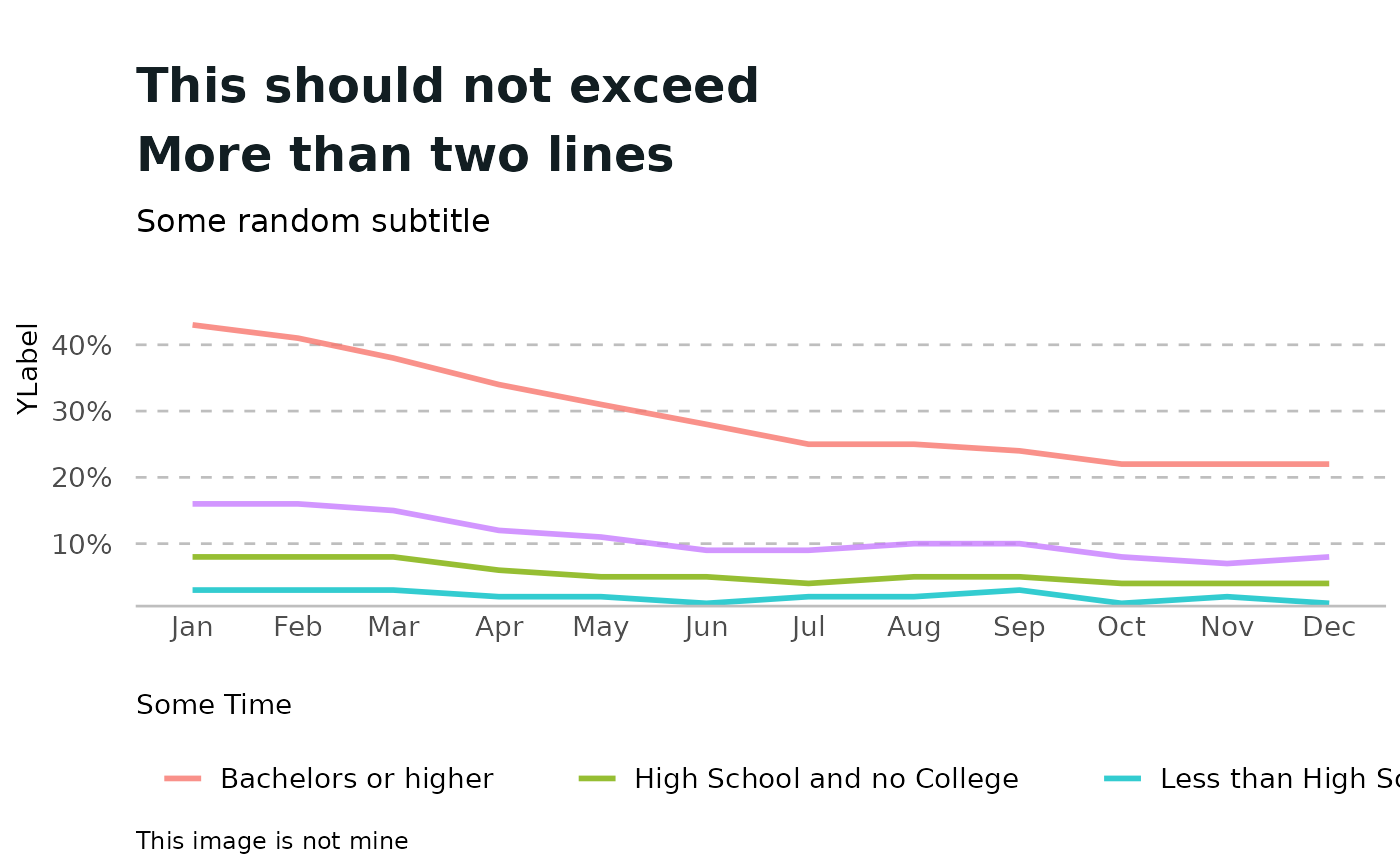
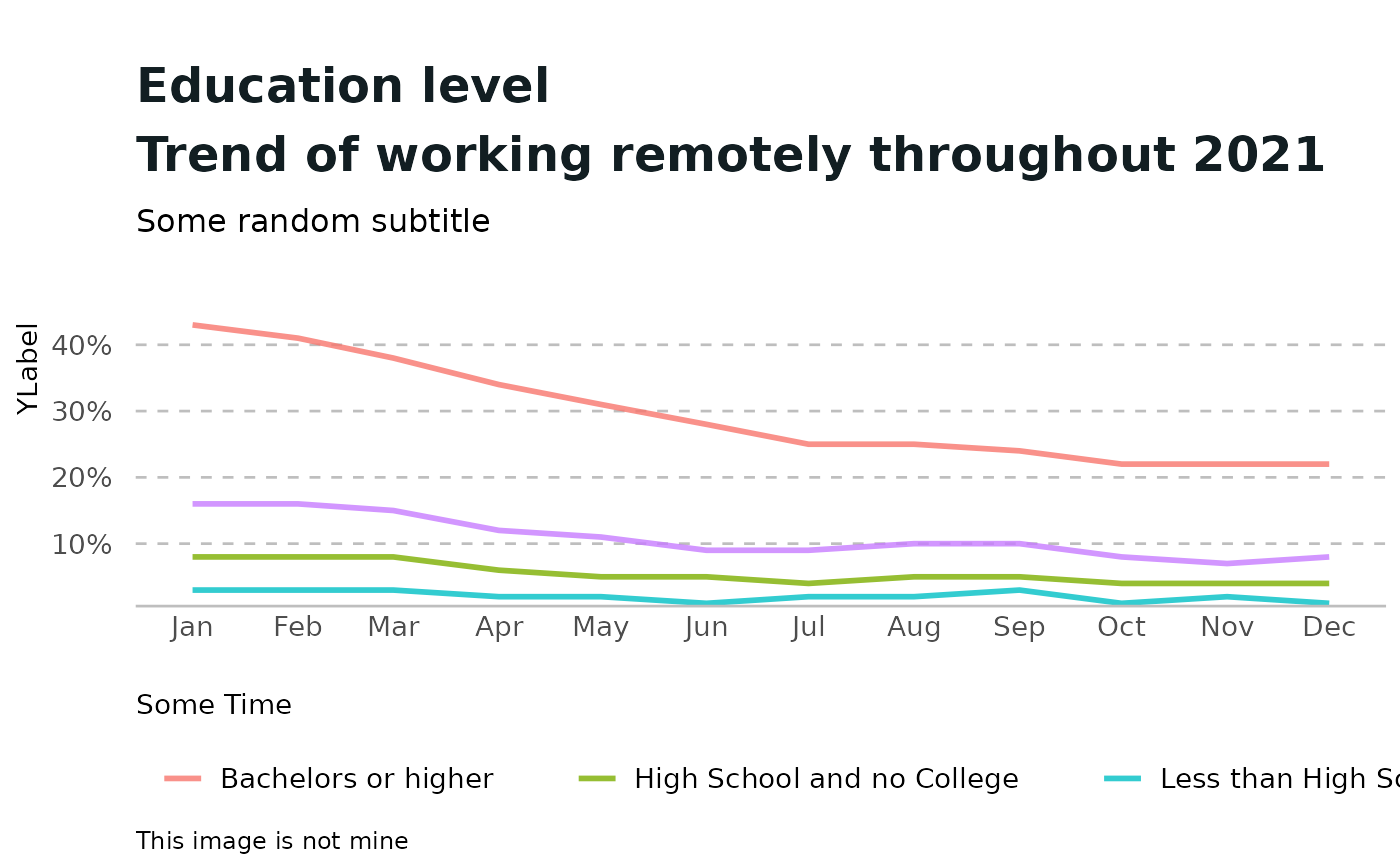
Built site for coriplot: 0.0.0.9000@da4fdbc

Changed region(s): [[0.0921, 0.1561, 0.9521, 0.2185], [0.0921, 0.0624, 0.5529, 0.1249]]

diff --git a/articles/coriplot.html b/articles/coriplot.html
@@ -132,7 +132,7 @@
   <span class="fu"><a href="../reference/theme_cori.html">theme_cori</a></span><span class="op">(</span><span class="op">)</span> <span class="op">-&gt;</span> <span class="va">fig</span>
 
 <span class="va">fig</span></code></pre></div>
-<p><img src="coriplot_files/figure-html/chart1-1.png" width="100%"></p>
+<p><img src="coriplot_files/figure-html/chart1-1.png" width="700"></p>
 </div>
 <div class="section level2">
 <h2 id="multi-line-chart-example">Multi LIne Chart Example<a class="anchor" aria-label="anchor" href="#multi-line-chart-example"></a>
@@ -147,7 +147,7 @@
   <span class="fu"><a href="https://ggplot2.tidyverse.org/reference/geom_path.html" class="external-link">geom_line</a></span><span class="op">(</span><span class="op">)</span> <span class="op">+</span>
   <span class="fu"><a href="https://ggplot2.tidyverse.org/reference/scale_date.html" class="external-link">scale_x_date</a></span><span class="op">(</span>date_breaks <span class="op">=</span> <span class="st">"1 month"</span>, date_labels <span class="op">=</span>  <span class="st">"%b"</span><span class="op">)</span> <span class="op">+</span> 
   <span class="fu"><a href="https://ggplot2.tidyverse.org/reference/scale_continuous.html" class="external-link">scale_y_continuous</a></span><span class="op">(</span><span class="op">)</span> <span class="op">+</span>
-  <span class="fu"><a href="https://ggplot2.tidyverse.org/reference/labs.html" class="external-link">labs</a></span><span class="op">(</span>title <span class="op">=</span> <span class="st">"This should not exceed\nMore than two lines"</span>,
+  <span class="fu"><a href="https://ggplot2.tidyverse.org/reference/labs.html" class="external-link">labs</a></span><span class="op">(</span>title <span class="op">=</span> <span class="st">"Education level\nTrend of working remotely throughout 2021"</span>,
        subtitle <span class="op">=</span> <span class="st">"Some random subtitle"</span>,
        caption <span class="op">=</span> <span class="st">"This image is not mine"</span><span class="op">)</span> <span class="op">+</span>
   <span class="fu"><a href="https://ggplot2.tidyverse.org/reference/labs.html" class="external-link">xlab</a></span><span class="op">(</span><span class="st">"Some Time"</span><span class="op">)</span> <span class="op">+</span>
@@ -158,7 +158,7 @@
 <span class="co">#&gt; replace the existing scale.</span>
 
 <span class="va">fig</span></code></pre></div>
-<p><img src="coriplot_files/figure-html/chart2-1.png" width="100%"></p>
+<p><img src="coriplot_files/figure-html/chart2-1.png" width="700"></p>
 <div class="sourceCode" id="cb5"><pre class="downlit sourceCode r">
 <code class="sourceCode R">
 <span class="va">twoColDf</span><span class="op">&lt;-</span><span class="va">time_series_sample_data</span><span class="op">[</span>,<span class="fu"><a href="https://rdrr.io/r/base/c.html" class="external-link">c</a></span><span class="op">(</span><span class="st">"date"</span>,<span class="st">"less_than_high_school"</span>,<span class="st">"high_school_no_college"</span><span class="op">)</span><span class="op">]</span>
@@ -182,7 +182,7 @@
   <span class="fu"><a href="https://ggplot2.tidyverse.org/reference/labs.html" class="external-link">ylab</a></span><span class="op">(</span><span class="st">"Percentage Working Remotely"</span><span class="op">)</span><span class="op">+</span>
   <span class="fu"><a href="../reference/scale_color_cori.html">scale_color_cori</a></span><span class="op">(</span><span class="va">cori_primary</span><span class="op">)</span> 
 <span class="va">fig</span> </code></pre></div>
-<p><img src="coriplot_files/figure-html/example3-1.png" width="100%"></p>
+<p><img src="coriplot_files/figure-html/example3-1.png" width="700"></p>
 <p>This is a basic example which shows you how to make curved lines:</p>
 <div class="sourceCode" id="cb6"><pre class="downlit sourceCode r">
 <code class="sourceCode R">
@@ -206,7 +206,7 @@
 
 <span class="va">fig</span>
 <span class="co">#&gt; `geom_smooth()` using formula 'y ~ x'</span></code></pre></div>
-<p><img src="coriplot_files/figure-html/example4-1.png" width="100%"></p>
+<p><img src="coriplot_files/figure-html/example4-1.png" width="700"></p>
 <div class="sourceCode" id="cb7"><pre class="downlit sourceCode r">
 <code class="sourceCode R">
 <span class="va">d</span> <span class="op">&lt;-</span> <span class="fu"><a href="https://rdrr.io/r/base/data.frame.html" class="external-link">data.frame</a></span><span class="op">(</span>a<span class="op">=</span><span class="fu"><a href="https://rdrr.io/r/base/c.html" class="external-link">c</a></span><span class="op">(</span><span class="fl">1</span>,<span class="fl">2</span>,<span class="fl">3</span>,<span class="fl">4</span>,<span class="fl">1</span>,<span class="fl">2</span>,<span class="fl">3</span>,<span class="fl">4</span><span class="op">)</span>,b<span class="op">=</span><span class="fu"><a href="https://rdrr.io/r/base/c.html" class="external-link">c</a></span><span class="op">(</span><span class="fl">1</span>,<span class="fl">1</span>,<span class="fl">1</span>,<span class="fl">1</span>,<span class="fl">2</span>,<span class="fl">2</span>,<span class="fl">2</span>,<span class="fl">2</span><span class="op">)</span>,c<span class="op">=</span><span class="fu"><a href="https://rdrr.io/r/base/c.html" class="external-link">c</a></span><span class="op">(</span><span class="fl">4</span>,<span class="fl">6</span>,<span class="fl">5</span>,<span class="fl">7</span>,<span class="fl">8</span>,<span class="fl">3</span>,<span class="fl">5</span>,<span class="fl">6</span><span class="op">)</span><span class="op">)</span>
@@ -221,7 +221,7 @@
 <span class="fu"><a href="../reference/threshold.html">threshold</a></span><span class="op">(</span><span class="va">f</span>,<span class="fl">3.5</span>, axis<span class="op">=</span><span class="st">"x"</span>, label<span class="op">=</span><span class="st">"\nthreshold"</span>,shift<span class="op">=</span><span class="fl">0.15</span><span class="op">)</span>
 <span class="co">#&gt; 3.5 x </span>
 <span class="co">#&gt; threshold</span></code></pre></div>
-<p><img src="coriplot_files/figure-html/example5-1.png" width="100%"></p>
+<p><img src="coriplot_files/figure-html/example5-1.png" width="700"></p>
 </div>
 <div class="section level2">
 <h2 id="new">New<a class="anchor" aria-label="anchor" href="#new"></a>
@@ -255,7 +255,7 @@
   <span class="fu"><a href="../reference/theme_cori.html">theme_cori</a></span><span class="op">(</span><span class="op">)</span>
   
 <span class="va">fig</span> </code></pre></div>
-<p><img src="coriplot_files/figure-html/example6-1.png" width="100%"></p>
+<p><img src="coriplot_files/figure-html/example6-1.png" width="700"></p>
 <div class="sourceCode" id="cb9"><pre class="downlit sourceCode r">
 <code class="sourceCode R"><span class="va">remote_work_by_ed_level</span> <span class="op"><a href="https://magrittr.tidyverse.org/reference/pipe.html" class="external-link">%&gt;%</a></span>
     <span class="fu"><a href="https://ggplot2.tidyverse.org/reference/ggplot.html" class="external-link">ggplot</a></span><span class="op">(</span>
@@ -277,7 +277,7 @@
     <span class="fu"><a href="../reference/watermark.html">watermark</a></span><span class="op">(</span><span class="op">)</span><span class="op">-&gt;</span> <span class="va">fig</span>
 
 <span class="va">fig</span></code></pre></div>
-<p><img src="coriplot_files/figure-html/example7-1.png" width="100%"></p>
+<p><img src="coriplot_files/figure-html/example7-1.png" width="700"></p>
 <div class="sourceCode" id="cb10"><pre class="downlit sourceCode r">
 <code class="sourceCode R">
 
@@ -298,7 +298,7 @@
     <span class="fu"><a href="../reference/scale_fill_cori.html">scale_fill_cori</a></span><span class="op">(</span><span class="op">)</span> <span class="op">-&gt;</span> <span class="va">fig</span>
 
 <span class="va">fig</span></code></pre></div>
-<p><img src="coriplot_files/figure-html/example_area_plot-1.png" width="100%"></p>
+<p><img src="coriplot_files/figure-html/example_area_plot-1.png" width="700"></p>
 </div>
   </main><aside class="col-md-3"><nav id="toc"><h2>On this page</h2>
     </nav></aside>
